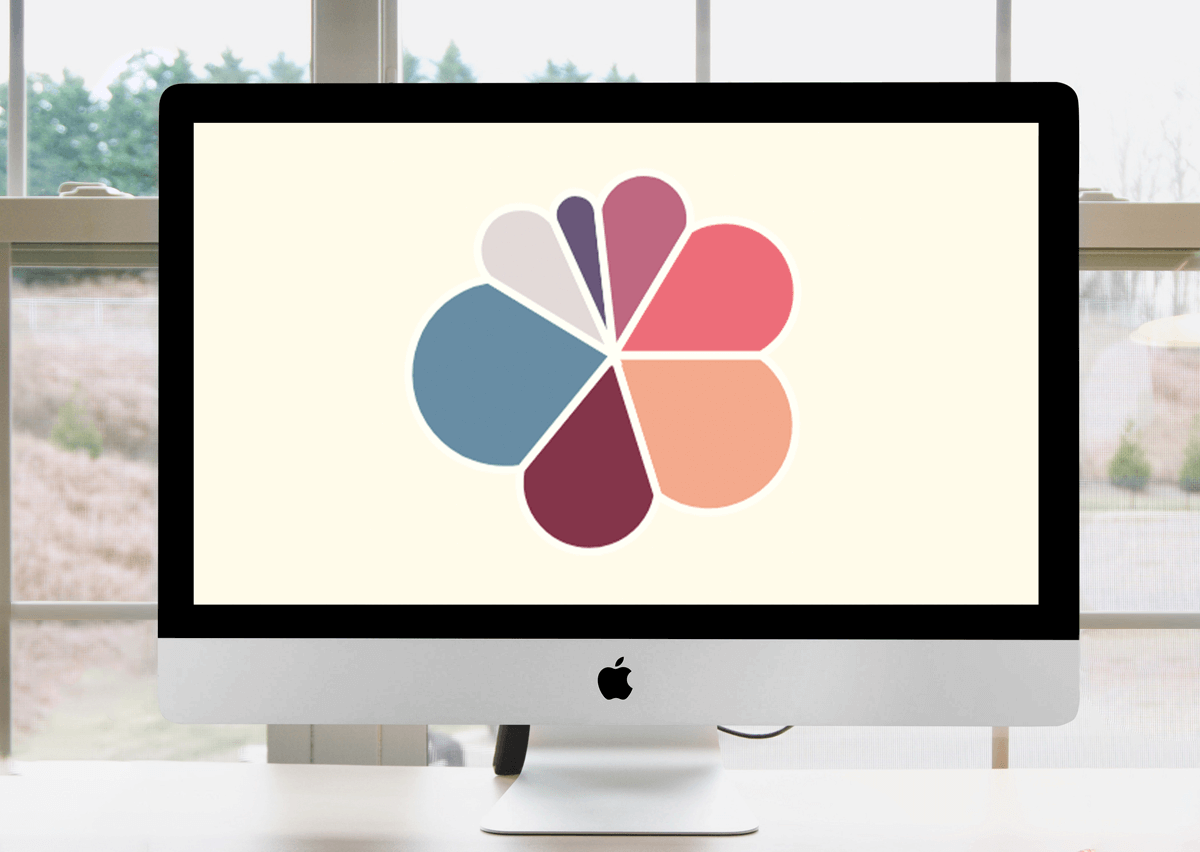
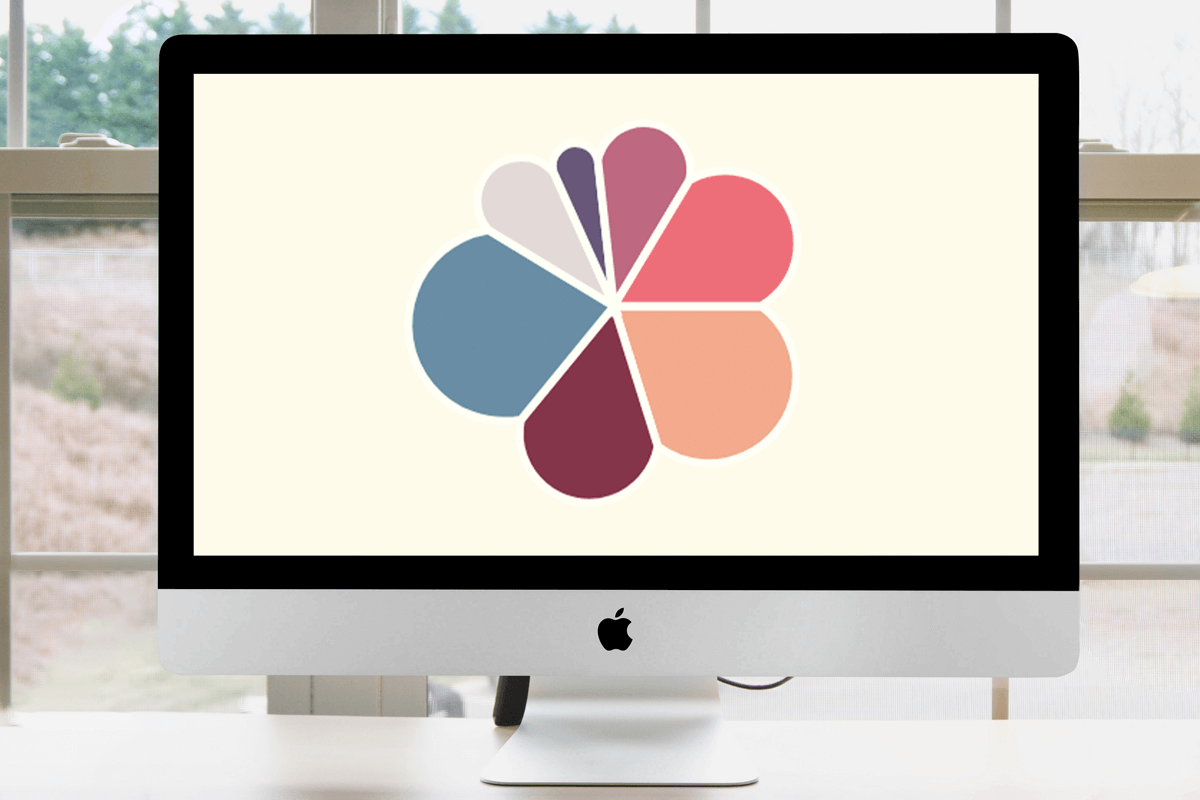
anzeige bilder größe
Bilder größe
navigationsbar farbe
Header image

diff --git a/assets/sass/main.scss b/assets/sass/main.scss
@@ -897,7 +897,7 @@ opacity: 0.3;
       background-image: url(images/tobias_ertel.png);
       background-repeat: no-repeat;
       background-position: center;
-      background-size: 90px, 90px;
+      background-size: 110%, 110%;
       color: _palette(accent1, fg-bold);
     }
 
@@ -1449,6 +1449,9 @@ body.landing {
 
   &.reveal {
     @include vendor("animation", "reveal-header 0.5s");
+    
+    
+
   }
 
   &.alt {
@@ -1456,6 +1459,27 @@ body.landing {
     background: none;
     color: rgba(255, 255, 255, 0.75);
     position: absolute;
+
+    a:not(.button) {
+      color: _palette(header, fg-not);
+    }
+
+    h1 {
+      color: inherit;
+      height: inherit;
+      left: 1.25em;
+      line-height: inherit;
+      margin: 0;
+      padding: 0;
+      position: absolute;
+      top: 0;
+  
+      a {
+        color: _palette(header, fg-not);
+        font-weight: _font(weight-bold);
+        border: 0;
+      }
+    }
 
     nav {
       > ul {

diff --git a/layouts/index.html b/layouts/index.html
@@ -57,9 +57,10 @@
             <section class="box special">
               {{ with partial "bannerURL" . }}
               
-              <span class="image featured"><img src="{{ . }}" alt="" /></span>
-          
+              <a href="{{ . }}" class="image featured"><img src="{{ . }}" alt="" /></a>
+
               {{ end }}
+              
               <h3>{{ .Title }}</h3>
               <!-- {{ with .Date }}
               <p>{{ .Format "Jan 2, 2006" }}</p>
@@ -70,9 +71,13 @@
               {{ end }} -->
               <ul class="actions special">
                 <li>
+                  
                   <a href="{{ .Permalink }}" class="button alt"
                     >{{ $blogSettings.buttonText }}
                   </a>
+                  
+                    
+                  
                 </li>
               </ul>
             </section>

diff --git a/layouts/partials/header.html b/layouts/partials/header.html
@@ -6,7 +6,7 @@
   </h1>
   <nav id="nav">
     <ul>
-      <li><a href="{{ .Site.BaseURL }}">Home</a></li>
+      <li><a href="www.tobias-ertel.de" target="_blank">>>> See my Photography work</a></li>
       <!-- <li><a href="{{ .URL }}">Contact</a></li> -->
       <li>
         <!-- <a href="#" class="icon solid fa-angle-down">Layouts</a> -->

diff --git a/layouts/partials/tags.html b/layouts/partials/tags.html
@@ -1,4 +1,3 @@
-{{/* Code thanks to Jake Wiesler, https://www.jakewiesler.com/blog/hugo-taxonomies/ */}}
 {{ $taxonomy := "tags" }}
 {{ with .Param $taxonomy }}
   <hr />

diff --git a/assets/sass/libs/_vars.scss b/assets/sass/libs/_vars.scss
@@ -41,6 +41,7 @@
 			bg:				#ffffff,
 			fg:				#283583,
 			fg-bold:		#283583,
+			fg-not:			#ffffff,
 			fg-light:		#999
 		),
 

diff --git a/content/blog/1_5050/index.md b/content/blog/1_5050/index.md
@@ -1,7 +1,7 @@
 ---
 title: 'Redesign Taxi-App'
 slug: '5050'
-image: 'images/5050/5050_titel2.jpg'
+image: 'images/5050/title3.png'
 date: "2019-03-16T00:00:00"
 description: 'Example of post with missing date property'
 disableComments: true
@@ -54,7 +54,7 @@ The Ostalbkreis district had its first app for the "fiftyFifty-Taxi" developed i
 - Everyone can use the service of the 50/50-Taxi
 
 ### **My role in this team**  
-I worked in a team consisting of two other interaction designer. I had a important role, cause I was doing the User reaserch and the Interactive Prototyping with Protopie. Both tasks were shaping the appearence of the final experience. 
+I worked in a team consisting of two other interaction designer. I had a important role, cause I was doing the User reaserch and the interactive prototyping with "Protopie". Both tasks were shaping the appearence of the final experience. 
 
 -----  
 
@@ -70,11 +70,11 @@ I worked in a team consisting of two other interaction designer. I had a importa
 7. Design Board methode 
 8. Low-fi Prototype
 9. Details 
-
+<!-- 
 **Miro Board**  
 
 {{< image src="miro.png" class= "fit" >}}
-
+ -->
 
 **Organizing the work with a Work breakdown structure**
 {{< image src="psp.png" class= "fit" >}}  

diff --git a/content/blog/ovi/index.md b/content/blog/ovi/index.md
@@ -1,5 +1,5 @@
 +++
-title = 'Voice User Interface for language learning'
+title = 'Voice Interface for language learning'
 slug = 'Ovi'
 date= "2019-03-15T00:00:00"
 image = 'images/Ovi/ovi_titel.png'
@@ -13,7 +13,7 @@ disableComments = true
  
 <!-- 
 ### Projekt Info
-Semesterproject   
+Semesterproject   ^
 Invention Design Course  
 HfG Schwäbisch Gmünd   
 Jahr: 2021  

diff --git a/content/blog/humus/index.md b/content/blog/humus/index.md
@@ -2,7 +2,7 @@
 title = 'Humus - Exhibition Design'
 slug = 'Humus'
 date= "2019-03-14T00:00:00"
-image = 'images/Humus/humus_titel.png'
+image = 'images/Humus/humus_titel3.png'
 description = 'Example of post with missing date property'
 disableComments = true
 +++

diff --git a/content/blog/dataViz/index.md b/content/blog/dataViz/index.md
@@ -1,5 +1,5 @@
 +++
-title = 'World Happiness Report 2015 - 2020'
+title = 'Data visualization with constraints'
 slug = 'dataViz'
 image = 'images/DataViz/worldhappy.png'
 date= "2019-03-13T00:00:00"
